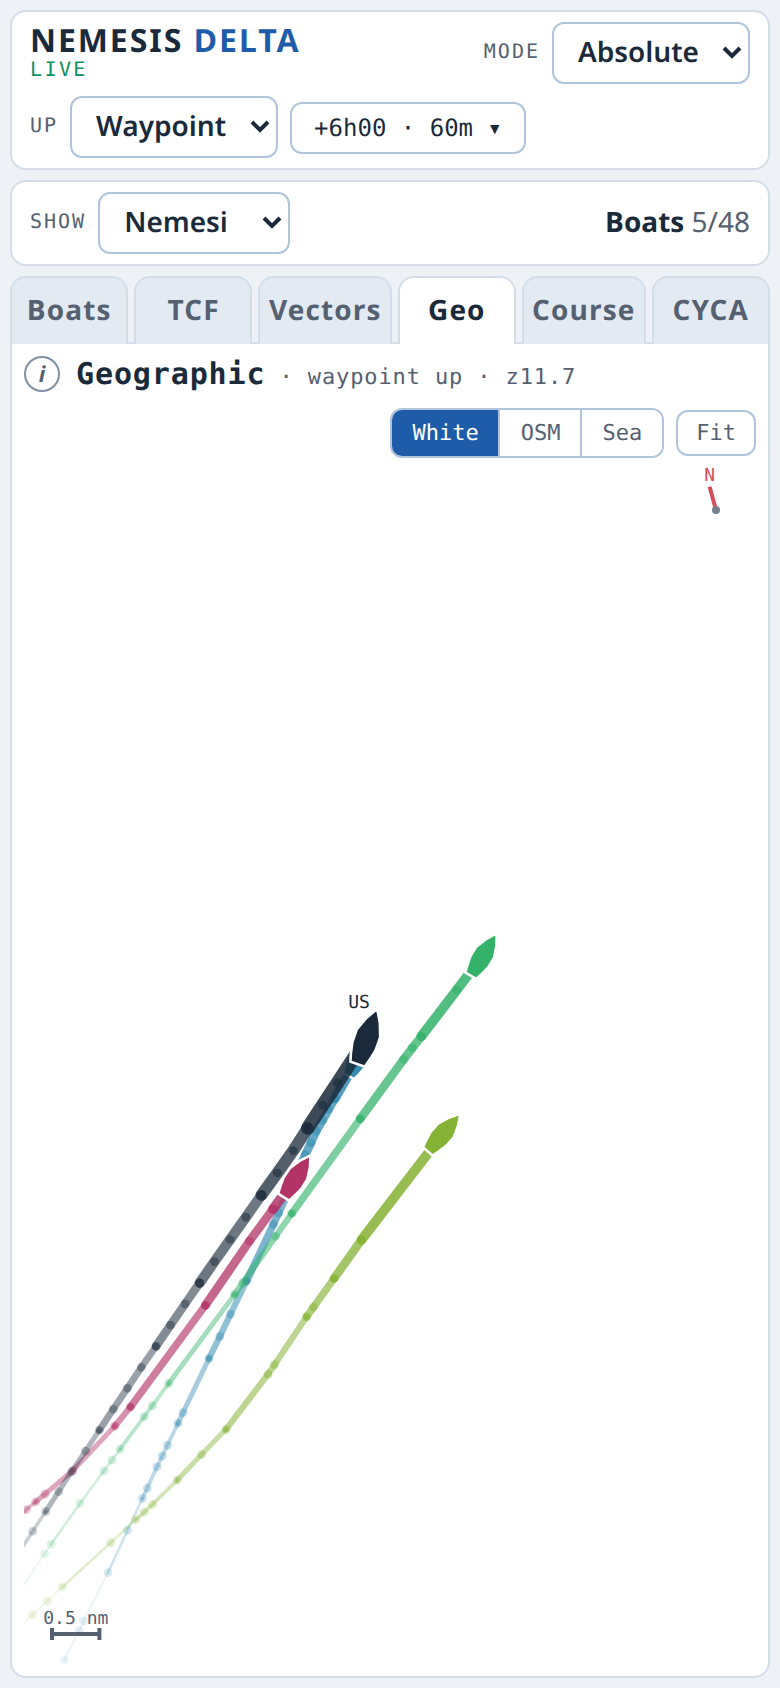
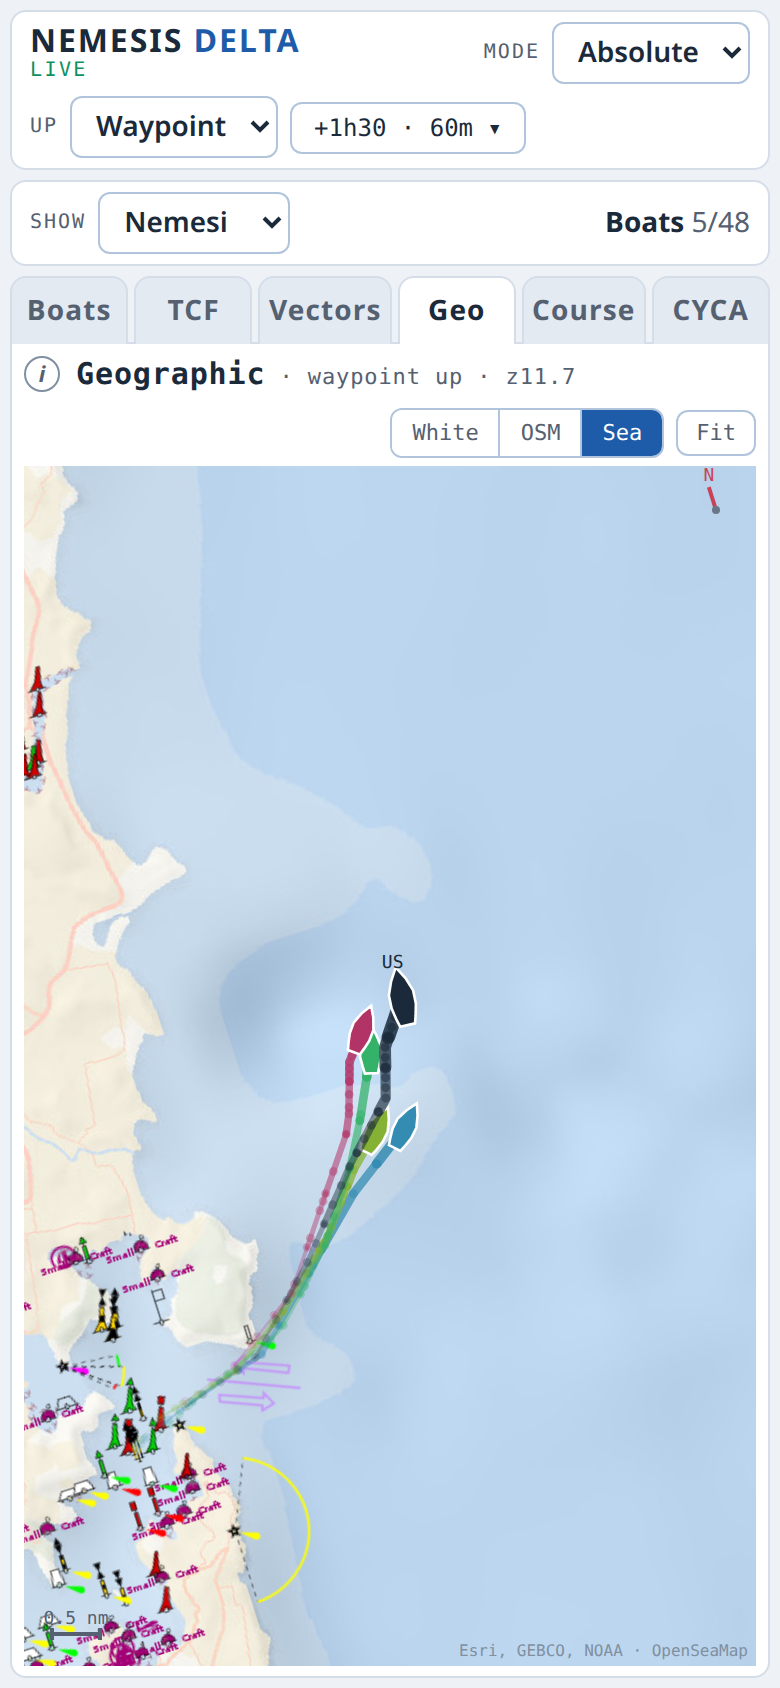
README Geo screenshot: Sea basemap, leaving Sydney Heads at 1.5 hours

diff --git a/tools/readme-shots.js b/tools/readme-shots.js
@@ -2,7 +2,8 @@
 /*
  * README screenshots: the webapp on a phone in portrait, against the plugin replaying the
  * recorded GC2026 race (test/sim/dev-server.js), with the boats nearest us as nemeses.
- * The TCFs are made up for the picture. Writes docs/screenshots/<tab>.png.
+ * The TCFs are made up for the picture. Writes docs/screenshots/<tab>.png. The Geo shot is
+ * earlier in the race, near the coast, on the Sea basemap (it needs internet for the tiles).
  *
  *   node tools/readme-shots.js [hoursIn]
  */
@@ -15,44 +16,58 @@ const OUT = path.join(__dirname, '..', 'docs', 'screenshots');
 const PHONE = {viewport: {width: 390, height: 844}, hasTouch: true, isMobile: true, deviceScaleFactor: 2};
 const TCF_US = 1.012;
 const TCFS = [0.987, 1.034, 1.005, 1.021];
+// hoursIn: null = the command line's; zoomOut: wheel steps out after Fit (3 = 1 zoom level).
 const SHOTS = [
-    {tab: 'boats', periodMin: 60},
-    {tab: 'tcf', periodMin: 60},
-    {tab: 'vectors', periodMin: 15},
-    {tab: 'geo', periodMin: 60}
+    {tab: 'boats', periodMin: 60, hoursIn: null},
+    {tab: 'tcf', periodMin: 60, hoursIn: null},
+    {tab: 'vectors', periodMin: 15, hoursIn: null},
+    {tab: 'geo', periodMin: 60, hoursIn: 1.5, base: 'sea', zoomOut: 6}
 ];
 
 async function main() {
     const hoursIn = Number(process.argv[2] || 6);
-    const srv = await startDevServer({hoursIn});
-    const snap = (await srv.app.call('GET', '/signalk/v1/api/nemesis/snapshot', {query: {}})).body;
+    const servers = new Map(); // hoursIn -> dev server, each with the same nemeses and TCFs
+    const serverAt = async (h) => {
+        if (!servers.has(h)) servers.set(h, await startDevServer({hoursIn: h}));
+        return servers.get(h);
+    };
+    // The nemeses are the boats nearest us at the main time.
+    const snap = (await (await serverAt(hoursIn)).app.call('GET', '/signalk/v1/api/nemesis/snapshot', {query: {}})).body;
     const nearest = snap.boats
         .filter((b) => b.current && b.rangeM != null)
         .sort((a, b) => a.rangeM - b.rangeM)
         .slice(0, TCFS.length);
-    await srv.app.put('navigation.racing.nemesis.setTcf', {id: 'self', tcf: TCF_US});
-    for (const [i, b] of nearest.entries()) {
-        await srv.app.put('navigation.racing.nemesis.setNemesis', {id: b.id, nemesis: true});
-        await srv.app.put('navigation.racing.nemesis.setTcf', {id: b.id, tcf: TCFS[i]});
-        console.log('nemesis', b.name, TCFS[i]);
-    }
+    nearest.forEach((b, i) => console.log('nemesis', b.name, TCFS[i]));
+    const setUp = async (srv) => {
+        await srv.app.put('navigation.racing.nemesis.setTcf', {id: 'self', tcf: TCF_US});
+        for (const [i, b] of nearest.entries()) {
+            await srv.app.put('navigation.racing.nemesis.setNemesis', {id: b.id, nemesis: true});
+            await srv.app.put('navigation.racing.nemesis.setTcf', {id: b.id, tcf: TCFS[i]});
+        }
+    };
 
     fs.mkdirSync(OUT, {recursive: true});
     const browser = await chromium.launch();
     try {
         for (const s of SHOTS) {
+            const h = s.hoursIn ?? hoursIn;
+            const fresh = !servers.has(h);
+            const srv = await serverAt(h);
+            if (fresh || h === hoursIn) await setUp(srv);
             const ctx = await browser.newContext(PHONE);
-            const prefs = {tab: s.tab, periodMin: s.periodMin, show: 'nemesi'};
+            const prefs = {tab: s.tab, periodMin: s.periodMin, show: 'nemesi', base: s.base || 'white'};
             await ctx.addInitScript((p) => localStorage.setItem('nd_prefs', JSON.stringify(p)), prefs);
             const page = await ctx.newPage();
             await page.goto(srv.url);
             await page.locator('#conn', {hasText: 'live'}).waitFor();
             if (s.tab === 'geo') {
-                // Fit frames where the boats are now; zoom out 1 level (3 wheel steps) for their tails.
+                // Fit frames where the boats are now; zoom out for their tails (and the land).
+                await page.waitForTimeout(1000); // the first data in, so Fit has boats to frame
                 await page.locator('#fitBtn').click();
                 const m = await page.locator('#map').boundingBox();
                 await page.mouse.move(m.x + m.width / 2, m.y + m.height / 2);
-                for (let i = 0; i < 3; i++) await page.mouse.wheel(0, 100);
+                for (let i = 0; i < (s.zoomOut || 0); i++) await page.mouse.wheel(0, 100);
+                await page.waitForLoadState('networkidle'); // map tiles
             }
             await page.waitForTimeout(1500); // charts settle
             const file = path.join(OUT, s.tab + '.png');
@@ -62,7 +77,7 @@ async function main() {
         }
     } finally {
         await browser.close();
-        await srv.close();
+        for (const srv of servers.values()) await srv.close();
     }
 }
 
